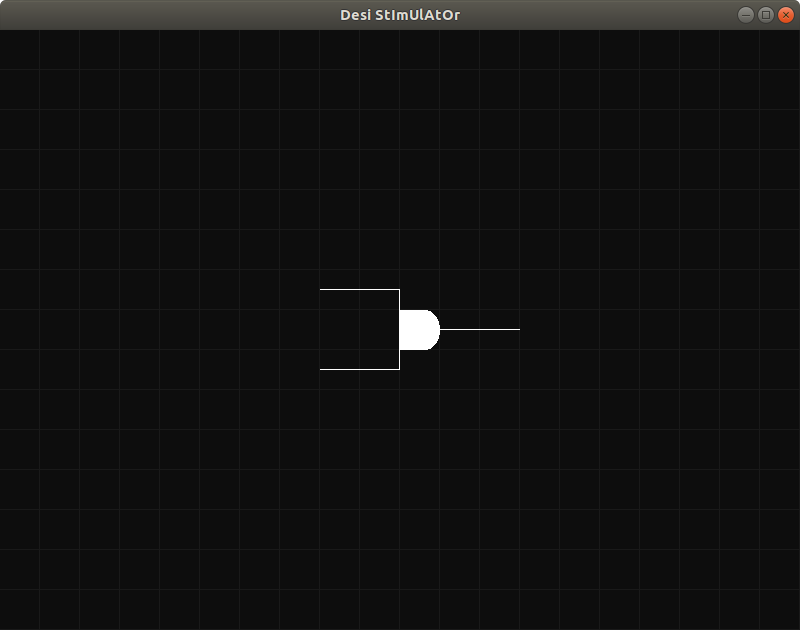
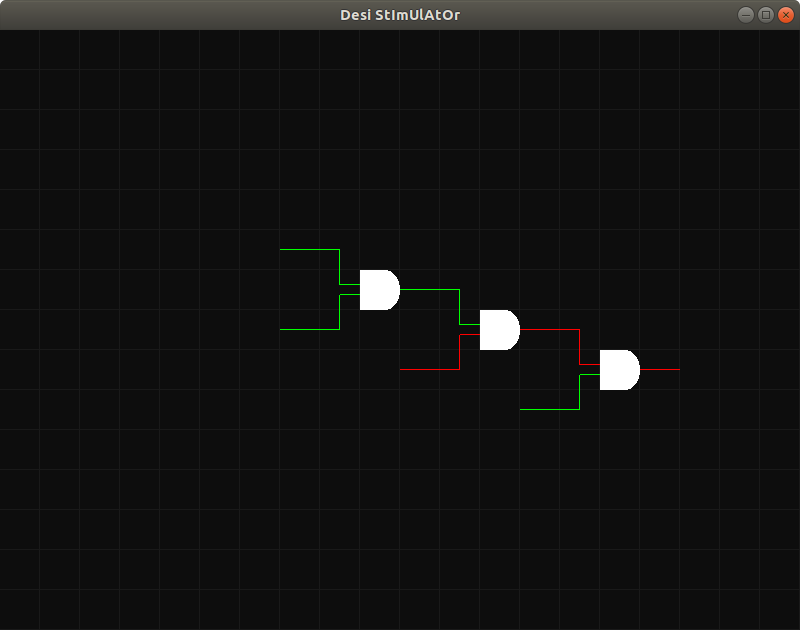
added option to switch on and off

Changed region(s): [[0.4375, 0.4222, 0.6562, 0.573], [0.7188, 0.5429, 0.8125, 0.6333]]

diff --git a/abstraction.py b/abstraction.py
@@ -11,7 +11,7 @@ and_gates=[]
 v_wire_down=[]
 v_wire_up=[]
 h_wire=[]
-<<<<<<< HEAD
+
 edges = (
     (0,1),
     (1,2),
@@ -29,10 +29,14 @@ for x in xrange(display_height):
         visited[(x,y)]=False
 
 def swi_open((x,y)):
+    if(off.count((x,y))>0):
+        off.remove((x,y))
     if(on.count((x,y))==0):
         on.append((x,y))
 
 def swi_off((x,y)):
+    if(on.count((x,y))>0):
+        on.remove((x,y))
     if(off.count((x,y))==0):
         off.append((x,y))
 
@@ -73,11 +77,10 @@ def bfs((x,y)):
                     visited[i]=True
                     bfs(i)
             
-=======
+
 
 
 #Draws vertical wires
->>>>>>> 6561deec8a34f69199e311d04867888535ce65fe
 
 def draw_Wire_vertical():
     for t in v_wire_up:
@@ -118,10 +121,6 @@ def draw_Wire_vertical():
         glEnd()
     # glFlush()
 
-<<<<<<< HEAD
-=======
-#draw horizontal wires
->>>>>>> 6561deec8a34f69199e311d04867888535ce65fe
 def draw_Wire_horizontal():
     for t in h_wire:
         # print "hey"
@@ -190,11 +189,13 @@ def drawAnd():
         glVertex2fv((x+20,display_width-((y+80)+20)))            
         if(on.count((x-40,y))>0 and on.count((x-40,y+80))>0):
             glColor3fv((0,1,0))
+            swi_open((x+120,y+40))
             swi_open((x+80,y+40))
         elif(off.count((x-40,y))>0 or off.count((x-40,y+80))>0):
             glColor3fv((1,0,0))
             if on.count((x+80,y+40)):
                 on.remove((x+80,y+40))
+            swi_off((x+120,y+40))
             swi_off((x+80,y+40))
 
         else:                
@@ -371,8 +372,7 @@ def mouse(button, state, x, y):
                 v_wire_down.remove((x,y))
             # print "*"         
             glutIdleFunc(spinDisplay)
-<<<<<<< HEAD
-=======
+
 
 
 
@@ -383,4 +383,3 @@ edges = (
     (2,3),
     (0,3)
     )
->>>>>>> 6561deec8a34f69199e311d04867888535ce65fe

diff --git a/README.md b/README.md
@@ -7,14 +7,20 @@ This is a small project related to building circuits using openGL. There are pla
 
 ## Instructions:
 - **AND Gate**:
-	- Press `0` and left click anywhere on the grid to show an and gate.
+	- Press `a` and left click anywhere on the grid to show an and gate.
 	- Click the right or middle button of mouse to remove the and gate.
 
 - **Horizontal Wire**:
-	- Press `1` and left click anywhere on the grid to show an Horizontal Wire.
+	- Press `h` and left click anywhere on the grid to show an Horizontal Wire.
 	- Click the right or middle button of mouse to remove the Horizontal Wire.
 
 
 - **Vertical Wire**:
-	- Press `2` and left click anywhere on the grid to show an Vertical Wire.
-	- Click the right or middle button of mouse to remove the Vertical Wire.
+	- Press `v` and left click anywhere on the grid to show a downward Vertical Wire.
+	- Click the right or middle button of mouse to remove the downward Vertical Wire.
+	- Press `V` and left click anywhere on the grid to show a upward Vertical Wire.
+	- Click the right or middle button of mouse to remove the upward Vertical Wire.
+	 
+- **Switching a wire on/off**:
+	- Press `g` and left click anywhere on the grid to send digital 1 through the wire.
+	- Press `r` and left click anywhere on the grid to send digital 0 through the wire.
